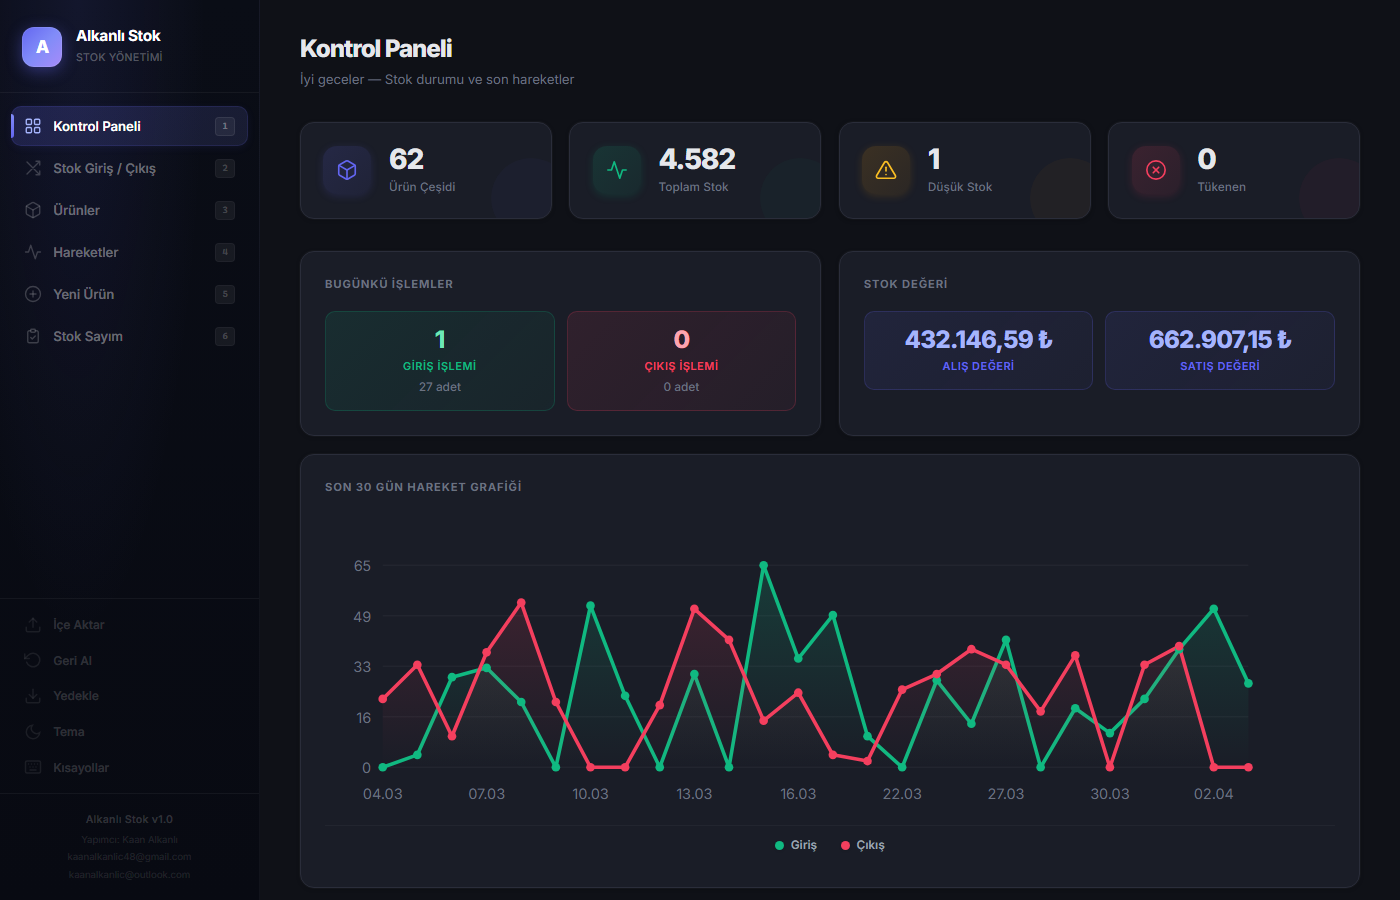
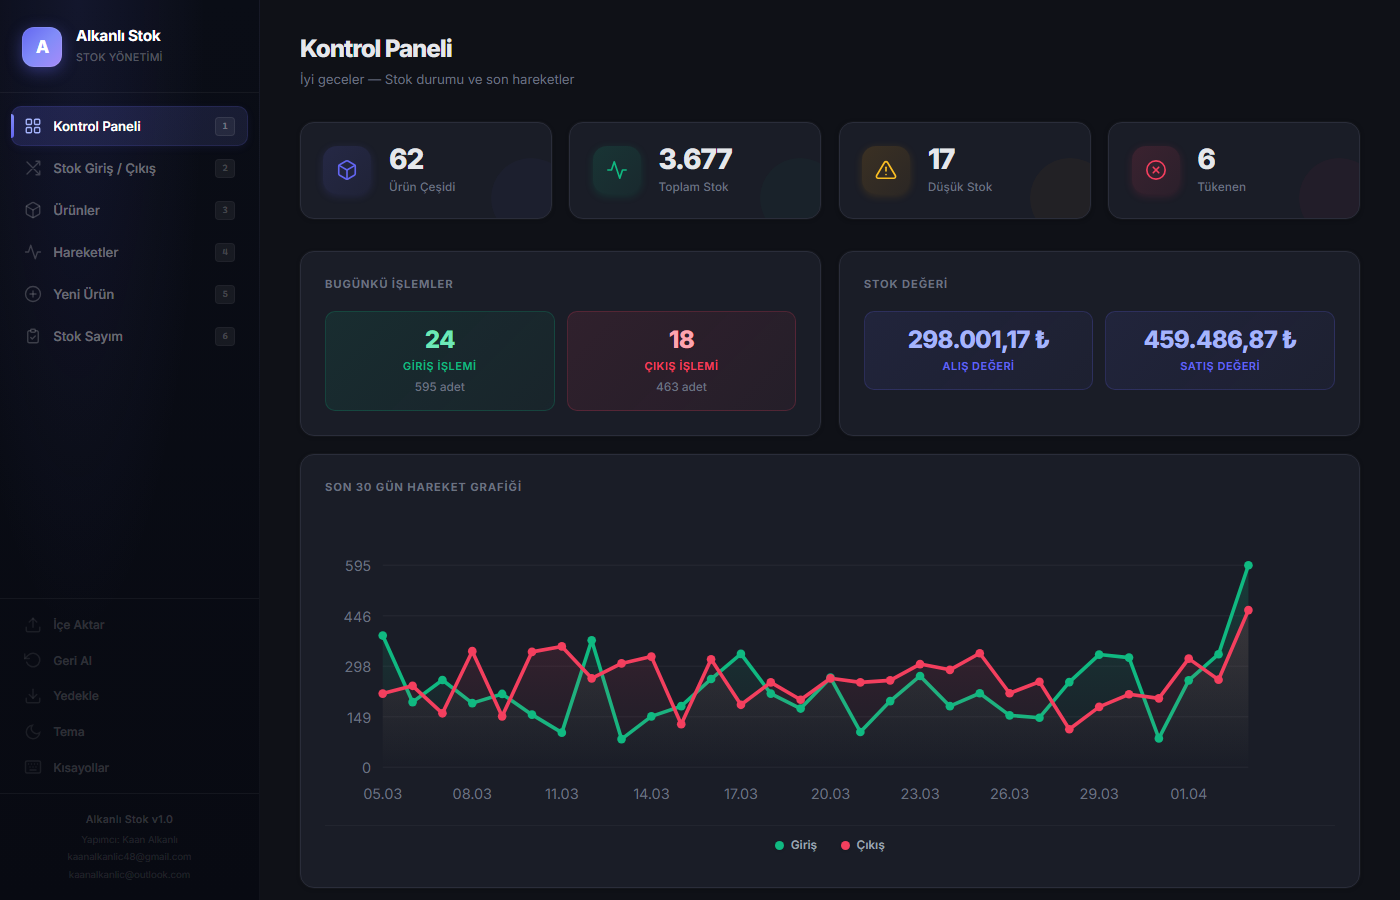
Dashboard → Kontrol Paneli, görselleri gerçekçi verilerle yenile
- Showcase tab adı "Dashboard" → "Kontrol Paneli" olarak düzeltildi
- Feature kart ve fiyat listesindeki Dashboard referansları güncellendi
- Demo veritabanı yeniden oluşturuldu: bugün 24 giriş / 18 çıkış
- 30 günlük hareket grafiği dolu ve tutarlı (618 hareket)
- Düşük stok ve tükenen ürün sayıları gerçekçi dağılımda
- 8 ekran görüntüsü yeniden alındı

diff --git a/alkanli-stok/index.html b/alkanli-stok/index.html
@@ -229,7 +229,7 @@
         <div class="sec-header"><div class="sec-tag">Uygulama &#304;&#231;i</div><h2 class="sec-title">Ekran G&#246;r&#252;nt&#252;leri</h2><p class="sec-desc">Uygulamadan al&#305;nan ger&#231;ek g&#246;r&#252;nt&#252;ler.</p></div>
 
         <div class="showcase-tabs">
-            <button class="s-tab active" data-panel="panel-dashboard"><svg viewBox="0 0 24 24" fill="none" stroke="currentColor" stroke-width="1.5"><rect x="3" y="3" width="7" height="7" rx="1"/><rect x="14" y="3" width="7" height="7" rx="1"/><rect x="3" y="14" width="7" height="7" rx="1"/><rect x="14" y="14" width="7" height="7" rx="1"/></svg><span>Dashboard</span></button>
+            <button class="s-tab active" data-panel="panel-dashboard"><svg viewBox="0 0 24 24" fill="none" stroke="currentColor" stroke-width="1.5"><rect x="3" y="3" width="7" height="7" rx="1"/><rect x="14" y="3" width="7" height="7" rx="1"/><rect x="3" y="14" width="7" height="7" rx="1"/><rect x="14" y="14" width="7" height="7" rx="1"/></svg><span>Kontrol Paneli</span></button>
             <button class="s-tab" data-panel="panel-urun"><svg viewBox="0 0 24 24" fill="none" stroke="currentColor" stroke-width="1.5"><path d="M20 7l-8-4-8 4m16 0l-8 4m8-4v10l-8 4m0-10L4 7m8 4v10M4 7v10l8 4"/></svg><span>&#220;r&#252;nler</span></button>
             <button class="s-tab" data-panel="panel-stok-op"><svg viewBox="0 0 24 24" fill="none" stroke="currentColor" stroke-width="1.5"><path d="M12 5v14M5 12h14"/></svg><span>Stok &#304;&#351;lemleri</span></button>
             <button class="s-tab" data-panel="panel-hareket"><svg viewBox="0 0 24 24" fill="none" stroke="currentColor" stroke-width="1.5"><polyline points="22 12 18 12 15 21 9 3 6 12 2 12"/></svg><span>Hareketler</span></button>
@@ -339,7 +339,7 @@
         <div class="showcase-panel" id="panel-dark">
             <div class="showcase-layout">
                 <div class="dual-screens">
-                    <div class="showcase-screen"><img src="img/dashboard-dark.png" alt="Dashboard - Dark Mode" loading="lazy"></div>
+                    <div class="showcase-screen"><img src="img/dashboard-dark.png" alt="Kontrol Paneli - Dark Mode" loading="lazy"></div>
                     <div class="showcase-screen"><img src="img/products-dark.png" alt="&#220;r&#252;nler - Dark Mode" loading="lazy"></div>
                 </div>
                 <div class="showcase-info">
@@ -363,7 +363,7 @@
     <section class="sec reveal" id="ozellikler">
         <div class="sec-header"><div class="sec-tag">&#214;zellikler</div><h2 class="sec-title">Neler Yapabilirsiniz?</h2><p class="sec-desc">Stok y&#246;netimini basitle&#351;tiren temel &#246;zellikler.</p></div>
         <div class="f-grid rc">
-            <div class="f-card"><div class="f-icon"><svg viewBox="0 0 24 24" fill="none" stroke="currentColor" stroke-width="1.5"><rect x="3" y="3" width="7" height="7" rx="1"/><rect x="14" y="3" width="7" height="7" rx="1"/><rect x="3" y="14" width="7" height="7" rx="1"/><rect x="14" y="14" width="7" height="7" rx="1"/></svg></div><div class="f-title">Canl&#305; Dashboard</div><div class="f-desc">Stok durumu, g&#252;nl&#252;k i&#351;lemler, grafikler ve uyar&#305;lar tek ekranda.</div></div>
+            <div class="f-card"><div class="f-icon"><svg viewBox="0 0 24 24" fill="none" stroke="currentColor" stroke-width="1.5"><rect x="3" y="3" width="7" height="7" rx="1"/><rect x="14" y="3" width="7" height="7" rx="1"/><rect x="3" y="14" width="7" height="7" rx="1"/><rect x="14" y="14" width="7" height="7" rx="1"/></svg></div><div class="f-title">Kontrol Paneli</div><div class="f-desc">Stok durumu, g&#252;nl&#252;k i&#351;lemler, grafikler ve uyar&#305;lar tek ekranda.</div></div>
             <div class="f-card"><div class="f-icon"><svg viewBox="0 0 24 24" fill="none" stroke="currentColor" stroke-width="1.5"><path d="M10.29 3.86L1.82 18a2 2 0 001.71 3h16.94a2 2 0 001.71-3L13.71 3.86a2 2 0 00-3.42 0z"/><line x1="12" y1="9" x2="12" y2="13"/><line x1="12" y1="17" x2="12.01" y2="17"/></svg></div><div class="f-title">D&#252;&#351;&#252;k Stok Uyar&#305;s&#305;</div><div class="f-desc">&#220;r&#252;n ba&#351;&#305;na e&#351;ik belirleyin, kritik stoklar renk koduyla g&#246;r&#252;ns&#252;n.</div></div>
             <div class="f-card"><div class="f-icon"><svg viewBox="0 0 24 24" fill="none" stroke="currentColor" stroke-width="1.5"><path d="M21 12.79A9 9 0 1 1 11.21 3 7 7 0 0 0 21 12.79z"/></svg></div><div class="f-title">Karanl&#305;k Tema</div><div class="f-desc">G&#246;z yormayan dark mode. Alt+D ile ge&#231;i&#351; yap&#305;n, tercih hat&#305;rlan&#305;r.</div></div>
             <div class="f-card"><div class="f-icon"><svg viewBox="0 0 24 24" fill="none" stroke="currentColor" stroke-width="1.5"><path d="M9 5H7a2 2 0 0 0-2 2v12a2 2 0 0 0 2 2h10a2 2 0 0 0 2-2V7a2 2 0 0 0-2-2h-2"/><rect x="9" y="3" width="6" height="4" rx="1"/><path d="M9 14l2 2 4-4"/></svg></div><div class="f-title">Stok Say&#305;m</div><div class="f-desc">Fiziksel say&#305;m sonu&#231;lar&#305;n&#305; girin, farklar hesaplans&#305;n, toplu g&#252;ncelleyin.</div></div>
@@ -411,7 +411,7 @@
             <div class="p-d">Ayl&#305;k abonelik yok. Yaz&#305;l&#305;m&#305; bir kez al&#305;n, s&#252;resiz kullan&#305;n.</div>
             <ul class="p-list">
                 <li><span class="p-ck"><svg viewBox="0 0 24 24" fill="none" stroke="currentColor" stroke-width="2.5"><polyline points="20 6 9 17 4 12"/></svg></span>S&#305;n&#305;rs&#305;z &#252;r&#252;n ve hareket kayd&#305;</li>
-                <li><span class="p-ck"><svg viewBox="0 0 24 24" fill="none" stroke="currentColor" stroke-width="2.5"><polyline points="20 6 9 17 4 12"/></svg></span>Dashboard, grafikler ve uyar&#305;lar</li>
+                <li><span class="p-ck"><svg viewBox="0 0 24 24" fill="none" stroke="currentColor" stroke-width="2.5"><polyline points="20 6 9 17 4 12"/></svg></span>Kontrol paneli, grafikler ve uyar&#305;lar</li>
                 <li><span class="p-ck"><svg viewBox="0 0 24 24" fill="none" stroke="currentColor" stroke-width="2.5"><polyline points="20 6 9 17 4 12"/></svg></span>Dark mode, barkod, stok say&#305;m, CSV aktarma</li>
                 <li><span class="p-ck"><svg viewBox="0 0 24 24" fill="none" stroke="currentColor" stroke-width="2.5"><polyline points="20 6 9 17 4 12"/></svg></span>Fiyat ve tedarik&#231;i takibi</li>
                 <li><span class="p-ck"><svg viewBox="0 0 24 24" fill="none" stroke="currentColor" stroke-width="2.5"><polyline points="20 6 9 17 4 12"/></svg></span>Kurulum ve e&#287;itim deste&#287;i</li>
